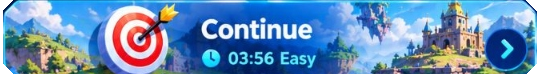
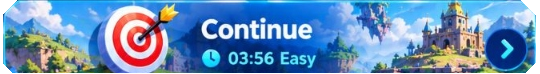
Fix homepage card outside corners with precision chamfer cuts and smooth transparency

diff --git a/index.html b/index.html
@@ -1085,7 +1085,7 @@
               className="scifi-card-3d relative w-full cursor-pointer select-none shrink-0"
             >
               <img 
-                src="/assets/card_daily_clean.png" 
+                src="/assets/card_daily_clean.png?v=4" 
                 alt="Daily Challenge" 
                 className="w-full h-auto object-contain block pointer-events-none drop-shadow-[0_4px_12px_rgba(0,0,0,0.4)]" 
               />
@@ -1099,7 +1099,7 @@
                 className="scifi-card-3d relative w-full cursor-pointer select-none"
               >
                 <img 
-                  src="/assets/card_level3_scifi.png" 
+                  src="/assets/card_level3_scifi.png?v=4" 
                   alt="Level 3" 
                   className="w-full h-auto object-contain block pointer-events-none drop-shadow-[0_4px_10px_rgba(0,0,0,0.4)]" 
                 />
@@ -1111,7 +1111,7 @@
                 className="scifi-card-3d relative w-full cursor-pointer select-none"
               >
                 <img 
-                  src="/assets/card_endless_scifi.png" 
+                  src="/assets/card_endless_scifi.png?v=4" 
                   alt="Endless Mode" 
                   className="w-full h-auto object-contain block pointer-events-none drop-shadow-[0_4px_10px_rgba(0,0,0,0.4)]" 
                 />
@@ -1124,9 +1124,9 @@
               className="scifi-card-3d relative w-full cursor-pointer select-none shrink-0"
             >
               <img 
-                src="/assets/card_continue_clean.png" 
+                src="/assets/card_continue_clean.png?v=4" 
                 alt="Continue" 
-                className="w-full h-auto object-contain block pointer-events-none drop-shadow-[0_4px_10px_rgba(0,0,0,0.4)]" 
+                className="w-full h-auto object-contain block pointer-events-none drop-shadow-[0_4px_12px_rgba(0,0,0,0.4)]" 
               />
             </div>
 
@@ -1136,7 +1136,7 @@
               className="scifi-card-3d relative w-full cursor-pointer select-none shrink-0"
             >
               <img 
-                src="/assets/card_newgame_clean.png" 
+                src="/assets/card_newgame_clean.png?v=4" 
                 alt="New Game" 
                 className="w-full h-auto object-contain block pointer-events-none drop-shadow-[0_4px_10px_rgba(0,0,0,0.4)]" 
               />
